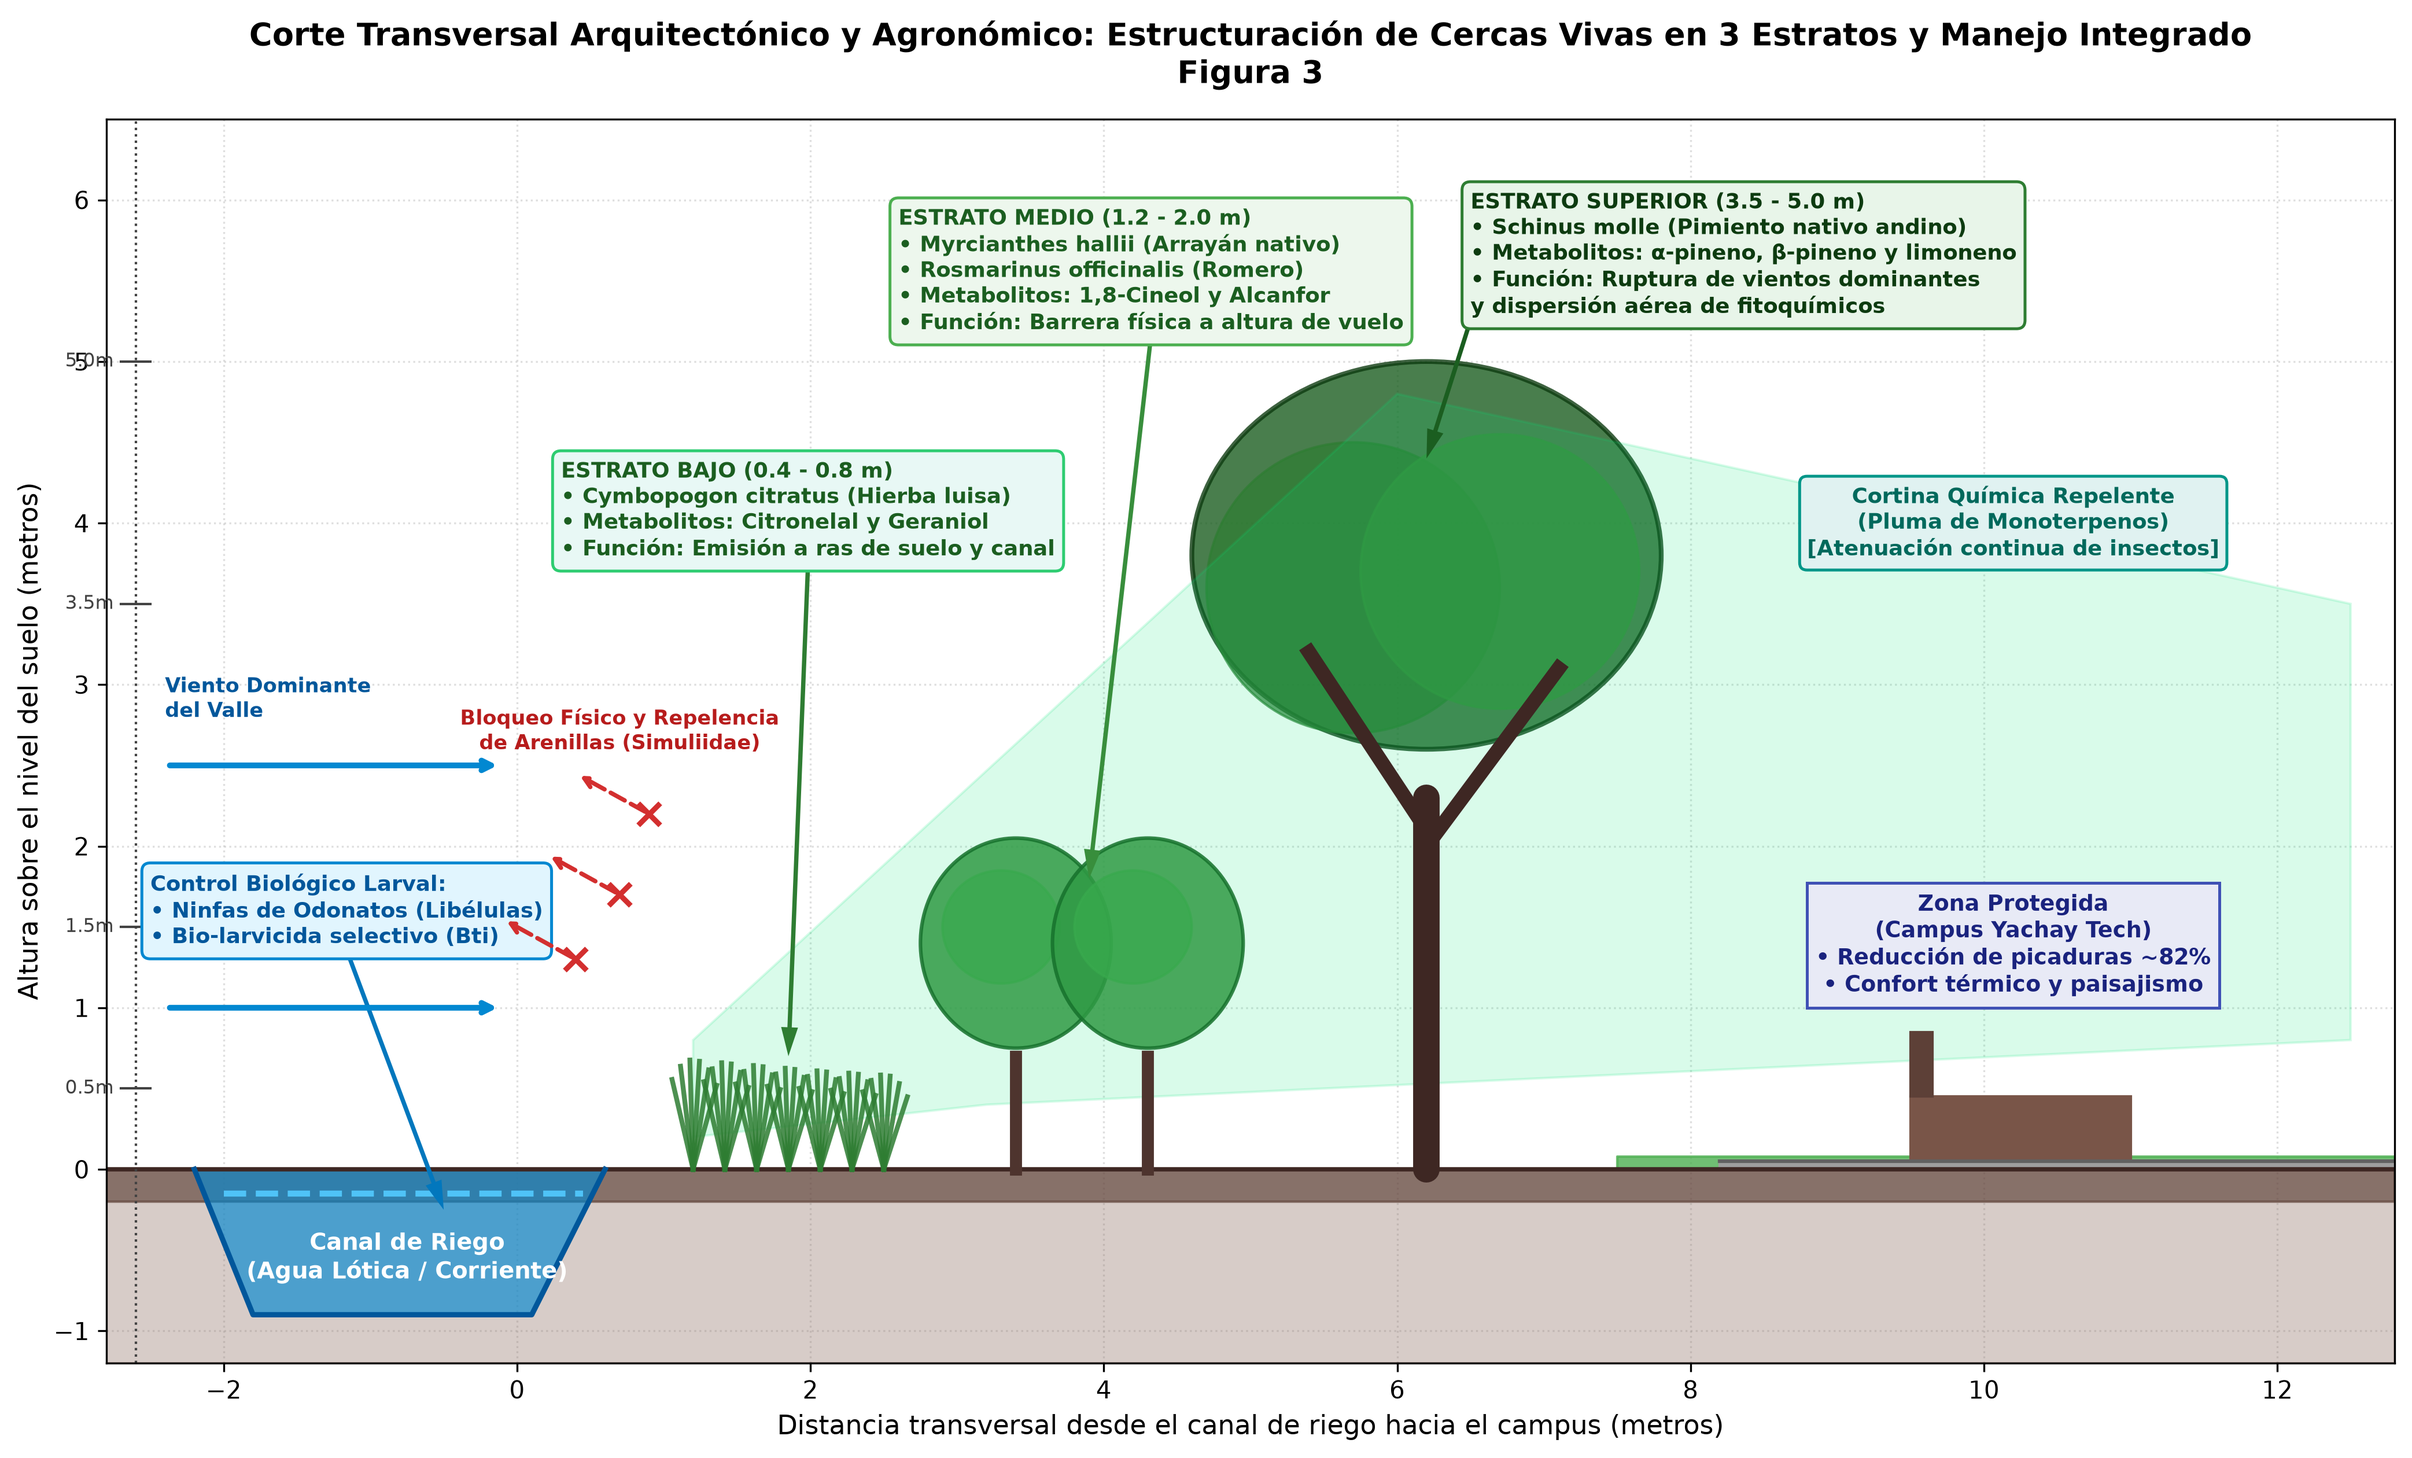
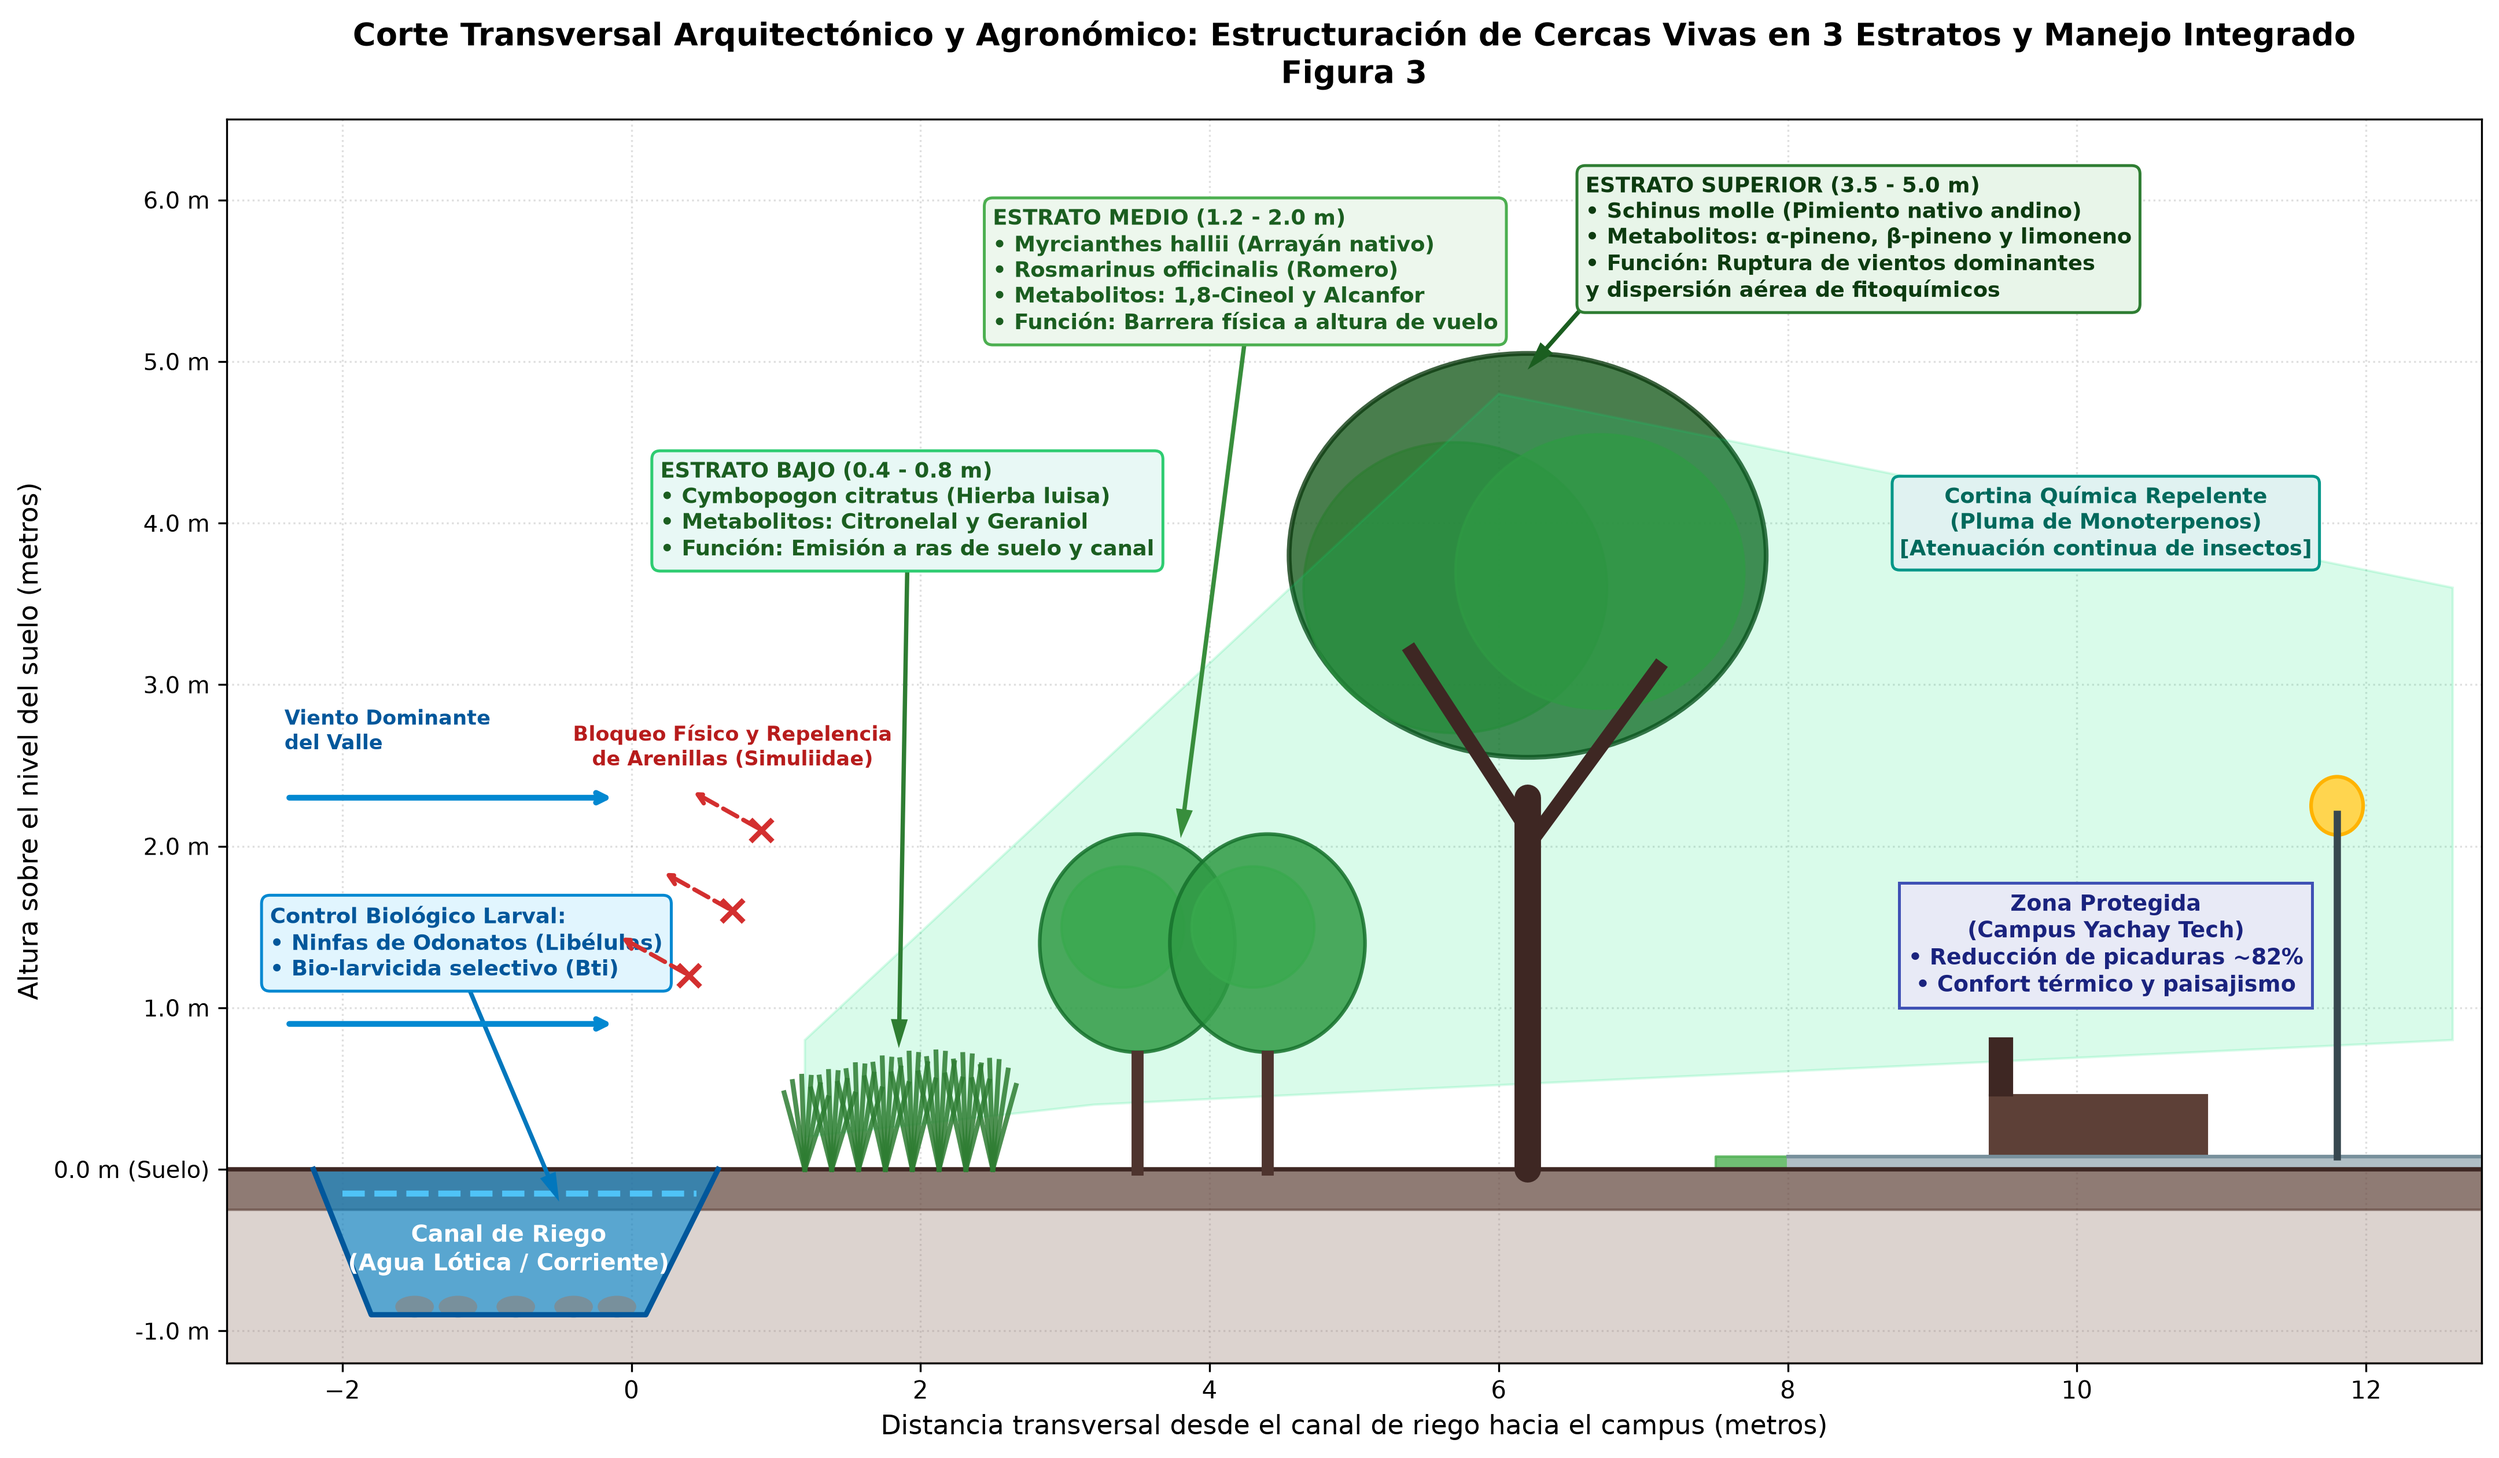
fix(reto3): refine Figure 3 y-axis ticks, spacing and campus architectural elements

diff --git a/reto3_Control_Arenillas/generar_figura3_corte_transversal.py b/reto3_Control_Arenillas/generar_figura3_corte_transversal.py
@@ -1,7 +1,7 @@
 """
 Generador de la Figura 3: Corte Transversal Arquitectónico y Agronómico de Cercas Vivas en 3 Estratos
 Equipo: Algoritmo Verde YT - Reto 3: Control de Arenillas (YOSW 2026)
-Formato: APA 7ma Edición (300 DPI) - Versión Pulida sin Solapamientos
+Formato: APA 7ma Edición (300 DPI) - Versión de Alta Precisión Gráfica
 """
 
 import matplotlib.pyplot as plt
@@ -9,7 +9,7 @@ import matplotlib.patches as patches
 import numpy as np
 
 def generar_figura_3():
-    fig, ax = plt.subplots(figsize=(14, 8.5), dpi=300)
+    fig, ax = plt.subplots(figsize=(14.5, 8.5), dpi=300)
     
     # Límites del corte transversal
     ax.set_xlim(-2.8, 12.8)
@@ -18,10 +18,10 @@ def generar_figura_3():
     # -------------------------------------------------------------
     # 1. SUELO Y ESTRATIGRAFÍA
     # -------------------------------------------------------------
-    # Subsuelo
-    ax.fill_between([-2.8, 12.8], -1.2, 0, color='#8d6e63', alpha=0.35, label='_nolegend_')
+    # Subsuelo mineral
+    ax.fill_between([-2.8, 12.8], -1.2, 0, color='#8d6e63', alpha=0.3, label='_nolegend_')
     # Capa de tierra vegetal / suelo fértil
-    ax.fill_between([-2.8, 12.8], -0.2, 0, color='#5d4037', alpha=0.65, label='_nolegend_')
+    ax.fill_between([-2.8, 12.8], -0.25, 0, color='#5d4037', alpha=0.6, label='_nolegend_')
     ax.axhline(0, color='#3e2723', lw=1.8)
     
     # Superficie con césped en campus (x > 7.5)
@@ -32,18 +32,23 @@ def generar_figura_3():
     # -------------------------------------------------------------
     canal_x = [-2.2, -1.8, 0.1, 0.6]
     canal_y = [0.0, -0.9, -0.9, 0.0]
-    ax.fill(canal_x, canal_y, color='#0288d1', alpha=0.65, label='_nolegend_')
+    ax.fill(canal_x, canal_y, color='#0288d1', alpha=0.6, label='_nolegend_')
     ax.plot(canal_x, canal_y, color='#01579b', lw=2.2)
     
+    # Sustrato de piedras en el fondo del canal (sitio de fijación larval)
+    for px in [-1.5, -1.2, -0.8, -0.4, -0.1]:
+        piedra = patches.Ellipse((px, -0.85), width=0.25, height=0.12, color='#78909c')
+        ax.add_patch(piedra)
+
     # Línea de espejo de agua
     ax.plot([-2.0, 0.45], [-0.15, -0.15], color='#4fc3f7', lw=2.5, linestyle='--')
     
-    ax.text(-0.75, -0.55, "Canal de Riego\n(Agua Lótica / Corriente)", 
+    ax.text(-0.85, -0.5, "Canal de Riego\n(Agua Lótica / Corriente)", 
             color='white', fontweight='bold', fontsize=9.5, ha='center', va='center')
     
     # Control Biológico en Canal
     ax.annotate("Control Biológico Larval:\n• Ninfas de Odonatos (Libélulas)\n• Bio-larvicida selectivo (Bti)",
-                xy=(-0.5, -0.25), xytext=(-2.5, 1.4),
+                xy=(-0.5, -0.2), xytext=(-2.5, 1.2),
                 arrowprops=dict(facecolor='#0277bd', edgecolor='none', width=1.8, headwidth=7),
                 fontsize=8.8, fontweight='bold', color='#01579b',
                 bbox=dict(boxstyle="round,pad=0.4", fc="#e1f5fe", ec="#0288d1", lw=1.2))
@@ -51,15 +56,15 @@ def generar_figura_3():
     # -------------------------------------------------------------
     # 3. ESTRATO BAJO (HERBÁCEO: 0.4 a 0.8 m) - Cymbopogon citratus
     # -------------------------------------------------------------
-    for bx in np.linspace(1.2, 2.5, 7):
+    for bx in np.linspace(1.2, 2.5, 8):
         for ang in [-35, -20, -5, 10, 25, 40]:
             rad = np.radians(ang)
-            h = 0.65 + 0.08 * np.cos(bx)
+            h = 0.65 + 0.08 * np.cos(bx * 3)
             ax.plot([bx, bx + 0.25 * np.sin(rad)], [0, h * np.cos(rad)], 
                     color='#2e7d32', lw=2, alpha=0.85)
     
     ax.annotate("ESTRATO BAJO (0.4 - 0.8 m)\n• Cymbopogon citratus (Hierba luisa)\n• Metabolitos: Citronelal y Geraniol\n• Función: Emisión a ras de suelo y canal",
-                xy=(1.85, 0.7), xytext=(0.3, 3.8),
+                xy=(1.85, 0.75), xytext=(0.2, 3.8),
                 arrowprops=dict(facecolor='#2e7d32', edgecolor='none', width=1.8, headwidth=7),
                 fontsize=8.8, fontweight='bold', color='#1b5e20',
                 bbox=dict(boxstyle="round,pad=0.4", fc="#e8f8f5", ec="#2ecc71", lw=1.2))
@@ -67,17 +72,17 @@ def generar_figura_3():
     # -------------------------------------------------------------
     # 4. ESTRATO MEDIO (ARBUSTIVO: 1.2 a 2.0 m) - Myrcianthes hallii / Romero
     # -------------------------------------------------------------
-    for ax_pos in [3.4, 4.3]:
+    for ax_pos in [3.5, 4.4]:
         ax.plot([ax_pos, ax_pos], [0, 0.7], color='#4e342e', lw=5)
-        copa = patches.Ellipse((ax_pos, 1.4), width=1.3, height=1.3, 
+        copa = patches.Ellipse((ax_pos, 1.4), width=1.35, height=1.35, 
                                color='#388e3c', alpha=0.85, ec='#1b5e20', lw=1.5)
         ax.add_patch(copa)
-        copa_sub = patches.Ellipse((ax_pos - 0.1, 1.5), width=0.8, height=0.7, 
+        copa_sub = patches.Ellipse((ax_pos - 0.1, 1.5), width=0.85, height=0.75, 
                                    color='#43a047', alpha=0.7)
         ax.add_patch(copa_sub)
 
     ax.annotate("ESTRATO MEDIO (1.2 - 2.0 m)\n• Myrcianthes hallii (Arrayán nativo)\n• Rosmarinus officinalis (Romero)\n• Metabolitos: 1,8-Cineol y Alcanfor\n• Función: Barrera física a altura de vuelo",
-                xy=(3.9, 1.8), xytext=(2.6, 5.2),
+                xy=(3.8, 2.05), xytext=(2.5, 5.2),
                 arrowprops=dict(facecolor='#388e3c', edgecolor='none', width=1.8, headwidth=7),
                 fontsize=8.8, fontweight='bold', color='#1b5e20',
                 bbox=dict(boxstyle="round,pad=0.4", fc="#edf7ed", ec="#4caf50", lw=1.2))
@@ -90,18 +95,18 @@ def generar_figura_3():
     ax.plot([tree_x, tree_x - 0.8], [2.1, 3.2], color='#3e2723', lw=6)
     ax.plot([tree_x, tree_x + 0.9], [2.0, 3.1], color='#3e2723', lw=6)
     
-    copa_arbol = patches.Ellipse((tree_x, 3.8), width=3.2, height=2.4, 
+    copa_arbol = patches.Ellipse((tree_x, 3.8), width=3.3, height=2.5, 
                                  color='#1b5e20', alpha=0.8, ec='#0d3b10', lw=2)
     ax.add_patch(copa_arbol)
-    copa_arbol2 = patches.Ellipse((tree_x - 0.5, 3.6), width=2.0, height=1.8, 
+    copa_arbol2 = patches.Ellipse((tree_x - 0.5, 3.6), width=2.1, height=1.8, 
                                   color='#2e7d32', alpha=0.7)
     ax.add_patch(copa_arbol2)
-    copa_arbol3 = patches.Ellipse((tree_x + 0.5, 3.7), width=1.9, height=1.7, 
+    copa_arbol3 = patches.Ellipse((tree_x + 0.5, 3.7), width=2.0, height=1.7, 
                                   color='#388e3c', alpha=0.7)
     ax.add_patch(copa_arbol3)
 
     ax.annotate("ESTRATO SUPERIOR (3.5 - 5.0 m)\n• Schinus molle (Pimiento nativo andino)\n• Metabolitos: α-pineno, β-pineno y limoneno\n• Función: Ruptura de vientos dominantes\ny dispersión aérea de fitoquímicos",
-                xy=(6.2, 4.4), xytext=(6.5, 5.3),
+                xy=(6.2, 4.95), xytext=(6.6, 5.4),
                 arrowprops=dict(facecolor='#1b5e20', edgecolor='none', width=1.8, headwidth=7),
                 fontsize=8.8, fontweight='bold', color='#0d3b10',
                 bbox=dict(boxstyle="round,pad=0.4", fc="#e8f5e9", ec="#2e7d32", lw=1.2))
@@ -109,19 +114,19 @@ def generar_figura_3():
     # -------------------------------------------------------------
     # 6. PLUMA DE DISPERSIÓN DE FITOCOMPUESTOS Y VIENTO
     # -------------------------------------------------------------
-    pluma_x = [1.2, 3.2, 5.5, 12.5, 12.5, 6.0, 1.2]
-    pluma_y = [0.2, 0.4, 0.5, 0.8, 3.5, 4.8, 0.8]
+    pluma_x = [1.2, 3.2, 5.5, 12.6, 12.6, 6.0, 1.2]
+    pluma_y = [0.2, 0.4, 0.5, 0.8, 3.6, 4.8, 0.8]
     ax.fill(pluma_x, pluma_y, color='#00e676', alpha=0.15, label='_nolegend_')
     
     # Flechas de viento dominante
-    for vy in [1.0, 2.5]:
+    for vy in [0.9, 2.3]:
         ax.annotate("", xy=(-0.1, vy), xytext=(-2.4, vy),
                     arrowprops=dict(arrowstyle="->", color='#0288d1', lw=2.4, ls='-'))
     
-    ax.text(-2.4, 2.8, "Viento Dominante\ndel Valle", 
+    ax.text(-2.4, 2.6, "Viento Dominante\ndel Valle", 
             color='#01579b', fontsize=8.5, fontweight='bold', ha='left')
 
-    # Cartel de la Pluma Química Repelente (ubicado arriba a la derecha para no solapar la zona protegida)
+    # Cartel de la Pluma Química Repelente
     ax.text(10.2, 3.8, "Cortina Química Repelente\n(Pluma de Monoterpenos)\n[Atenuación continua de insectos]",
             fontsize=8.8, fontweight='bold', color='#00695c', ha='center',
             bbox=dict(boxstyle="round,pad=0.35", fc="#e0f2f1", ec="#009688", lw=1.2))
@@ -129,35 +134,41 @@ def generar_figura_3():
     # -------------------------------------------------------------
     # 7. ZONA PROTEGIDA: CAMPUS UNIVERSITARIO
     # -------------------------------------------------------------
-    ax.fill_between([8.2, 12.8], 0, 0.05, color='#9e9e9e')
-    ax.plot([8.2, 12.8], [0.05, 0.05], color='#616161', lw=1.5)
+    # Caminería peatonal / adoquín
+    ax.fill_between([8.0, 12.8], 0, 0.08, color='#b0bec5')
+    ax.plot([8.0, 12.8], [0.08, 0.08], color='#78909c', lw=1.5)
     
-    # Banco de campus
-    banco = patches.Rectangle((9.5, 0.05), width=1.5, height=0.4, color='#795548')
+    # Banco de campus y farola / luminaria
+    banco = patches.Rectangle((9.4, 0.08), width=1.5, height=0.38, color='#5d4037')
     ax.add_patch(banco)
-    respaldo = patches.Rectangle((9.5, 0.45), width=0.15, height=0.4, color='#5d4037')
+    respaldo = patches.Rectangle((9.4, 0.46), width=0.15, height=0.35, color='#3e2723')
     ax.add_patch(respaldo)
+    
+    # Farola de campus
+    ax.plot([11.8, 11.8], [0.08, 2.2], color='#37474f', lw=3)
+    farola = patches.Circle((11.8, 2.25), radius=0.18, color='#ffd54f', ec='#ffb300', lw=1.5)
+    ax.add_patch(farola)
     
     ax.text(10.2, 1.1, "Zona Protegida\n(Campus Yachay Tech)\n• Reducción de picaduras ~82%\n• Confort térmico y paisajismo",
             fontsize=9.2, fontweight='bold', color='#1a237e', ha='center',
             bbox=dict(boxstyle="square,pad=0.4", fc="#e8eaf6", ec="#3f51b5", lw=1.2))
 
     # Arenillas repelidas (Simuliidae)
-    for insect_pos in [(0.7, 1.7), (0.9, 2.2), (0.4, 1.3)]:
+    for insect_pos in [(0.7, 1.6), (0.9, 2.1), (0.4, 1.2)]:
         ax.plot(insect_pos[0], insect_pos[1], marker='x', markersize=9, color='#d32f2f', mew=2.2)
         ax.annotate("", xy=(insect_pos[0] - 0.5, insect_pos[1] + 0.25), xytext=insect_pos,
                     arrowprops=dict(arrowstyle="->", color='#d32f2f', lw=1.8, ls='--'))
     
-    ax.text(0.7, 2.6, "Bloqueo Físico y Repelencia\nde Arenillas (Simuliidae)", 
+    ax.text(0.7, 2.5, "Bloqueo Físico y Repelencia\nde Arenillas (Simuliidae)", 
             color='#b71c1c', fontsize=8.5, fontweight='bold', ha='center')
 
     # -------------------------------------------------------------
-    # 8. COTAS Y DIMENSIONES
+    # 8. EJES Y COTAS ESTÁNDAR APA (SIN SOLAPAMIENTO)
     # -------------------------------------------------------------
-    ax.axvline(-2.6, color='#424242', lw=1, ls=':')
-    for h, label in [(0.5, "0.5m"), (1.5, "1.5m"), (3.5, "3.5m"), (5.0, "5.0m")]:
-        ax.plot([-2.7, -2.5], [h, h], color='#424242', lw=1)
-        ax.text(-2.75, h, label, fontsize=8, ha='right', va='center', color='#424242')
+    # Ticks limpios y oficiales en el eje Y
+    ax.set_yticks([-1.0, 0.0, 1.0, 2.0, 3.0, 4.0, 5.0, 6.0])
+    ax.set_yticklabels(['-1.0 m', '0.0 m (Suelo)', '1.0 m', '2.0 m', '3.0 m', '4.0 m', '5.0 m', '6.0 m'], 
+                       fontsize=9.5)
 
     ax.set_title("Corte Transversal Arquitectónico y Agronómico: Estructuración de Cercas Vivas en 3 Estratos y Manejo Integrado\nFigura 3", 
                  fontsize=13, fontweight='bold', pad=15)
